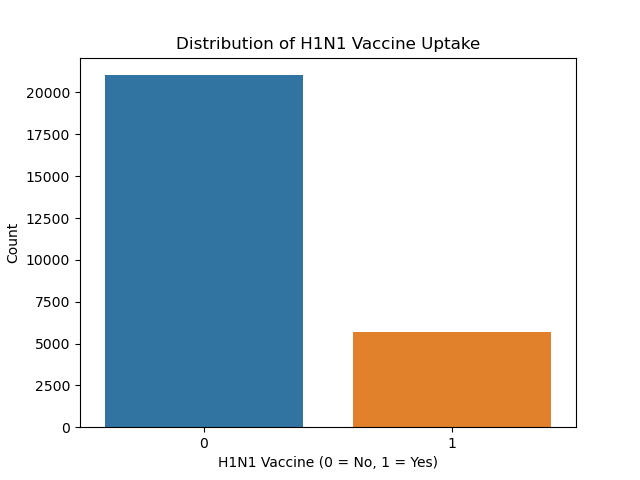
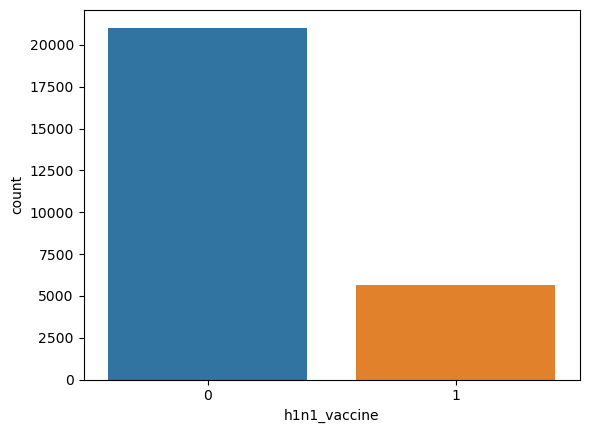
Final update: improved README, added plots, updated notebook with pipeline, evaluation, and tuning

Changed region(s): [[0.0, 0.06, 0.9474, 0.9908]]

diff --git a/README.md b/README.md
@@ -1,142 +1,236 @@
-# h1n1-flu-vaccine-prediction
-## Predicting H1N1 flu vaccine uptake using machine learning
+# H1N1 Flu Vaccine Prediction
 
-# Project Overview
-During the 2009 H1N1 pandemic, vaccination was one of the most important strategies used to reduce the spread of the virus. However, vaccination uptake varied significantly among individuals.
+Predicting H1N1 flu vaccine uptake using machine learning.
 
-This project builds machine learning classification models to predict whether an individual received the H1N1 vaccine based on demographic characteristics, health behaviors, and vaccine attitudes.
+---
 
-The goal is to identify key factors influencing vaccination decisions and provide insights that can help public health organizations improve vaccination outreach strategies.
+##  Project Overview
+
+During the 2009 H1N1 influenza pandemic, vaccination was one of the most effective strategies used to reduce infection rates and prevent severe outcomes. Despite this, vaccination uptake varied significantly across different population groups.
+
+This project applies machine learning techniques to predict whether an individual received the H1N1 vaccine based on:
+
+- Demographic characteristics  
+- Health conditions  
+- Preventive behaviors  
+- Attitudes toward vaccines  
+
+Beyond prediction, the goal is to identify key factors influencing vaccination decisions and generate actionable insights for public health organizations.
+
+---
+
+##  Dataset
+
+The dataset used in this project comes from the **National 2009 H1N1 Flu Survey**.
+
+🔗 Dataset Source:  
+https://www.drivendata.org/competitions/66/flu-shot-learning/data/
+
+### Dataset Description
+
+The dataset consists of two main files:
+
+- `training_set_features.csv` → Predictor variables  
+- `training_set_labels.csv` → Target variables  
+
+Each row represents an individual respondent and includes:
+
+- Demographics (age, sex, race, income)  
+- Health conditions  
+- Behavioral factors (mask use, hand washing, etc.)  
+- Opinions and perceptions about vaccines  
+
+The datasets are merged using a unique identifier: `respondent_id`.
+
+### Target Variable
+
+- `h1n1_vaccine`  
+  - `1` → Received vaccine  
+  - `0` → Did not receive vaccine  
+
+---
 
 # Business Problem
 
-Public health organizations need to understand why some individuals choose to vaccinate while others do not.
+Public health organizations aim to increase vaccination rates to reduce the spread of infectious diseases.
 
-Understanding these patterns can help design better vaccination campaigns and improve vaccine uptake.
+However, not all individuals choose to vaccinate.
 
-Key Question
+## Key Question:
+> Can we predict whether someone will receive the H1N1 vaccine based on their characteristics and behaviors?
 
-Can we predict whether someone will receive the H1N1 vaccine using demographic information, health behaviors, and vaccine attitudes?
+Understanding this helps:
+- Improve vaccine outreach  
+- Target hesitant populations  
+- Design better public health campaigns  
 
-## Stakeholder
-The primary stakeholders for this project include:
+---
 
-- Public health organizations
+##  Stakeholders
 
-- Healthcare policymakers
+- Public health organizations  
+- Healthcare policymakers  
+- Medical professionals  
 
-- Medical professionals involved in vaccination campaigns
+These stakeholders rely on data-driven insights to improve vaccination strategies and protect vulnerable populations.
 
-These stakeholders aim to increase vaccination rates in order to reduce the spread of infectious diseases and protect vulnerable populations.
+---
 
+##  Methodology
 
-# Key Results
+The project follows a structured data science workflow:
 
-Main findings from the analysis:
+### 1. Data Preparation
+- Merged datasets using `respondent_id`
+- Handled missing values using mode imputation
+- Removed irrelevant columns (e.g., `respondent_id`)
+- Applied one-hot encoding to categorical variables
+- Performed train-test split
 
-- Logistic Regression achieved 84% accuracy
+---
 
-- Doctor recommendation was the strongest predictor of vaccination
+### 2. Pipeline Implementation
+A machine learning pipeline was used to:
 
-- Individuals with higher perceived H1N1 risk were more likely to vaccinate
+- Apply preprocessing (scaling + encoding)
+- Train models consistently
+- Prevent data leakage
+- Improve reproducibility
 
-- Healthcare workers had higher vaccination uptake
+---
 
+### 3. Reusable Evaluation Function
+A reusable function was created to standardize:
 
-# Model Performance
-## Confusion Matrix
+- Model training  
+- Predictions  
+- Evaluation metrics  
+- Visualization  
 
-The model correctly classified most individuals who did not receive the vaccine, but performance was slightly lower when predicting vaccinated individuals due to class imbalance.
-![Confusion Matrix](images/plots/confusion_matrix.png)
+This improves code quality and ensures fair model comparison.
 
-## ROC Curve
+---
 
-The ROC curve shows that the model performs significantly better than random guessing, with an AUC score of approximately 0.83.
+### 4. Models Used
+
+- Logistic Regression  
+- Decision Tree  
+- Random Forest  
+
+---
+
+### 5. Hyperparameter Tuning
+
+GridSearchCV was used to optimize the Decision Tree model by tuning:
+
+- Maximum depth  
+- Minimum samples per split  
+
+This helps balance bias and variance and improve performance.
+
+---
+
+### 6. Model Evaluation
+
+Models were evaluated using:
+
+- Accuracy  
+- Precision  
+- Recall  
+- F1-score  
+- ROC-AUC  
+
+Cross-validation was used to ensure stability and generalization.
+
+---
+
+##  Model Performance
+
+| Model | Accuracy |
+|------|--------|
+| Logistic Regression | 0.84 |
+| Decision Tree | 0.75 |
+| Random Forest | 0.83 |
+
+### Final Model:
+ Logistic Regression
+
+**Why?**
+- Strong performance  
+- Stable across folds  
+- Easy to interpret  
+
+---
+
+##  Key Visualizations
+
+### Vaccine Distribution
+![Vaccine Distribution](images/plots/vaccine_distribution.png)
+
+### Doctor Recommendation vs Vaccination
+![Doctor Recommendation](images/plots/doctor_recommendation.png)
+
+### ROC Curve
 ![ROC Curve](images/plots/roc_curve.png)
 
-## Feature Importance
-
-The most influential predictors include:
-
-- Doctor recommendation
-
-- Perceived H1N1 risk
-
-- Vaccine effectiveness beliefs
-
-- Concern about H1N1
+### Feature Importance
 ![Feature Importance](images/plots/feature_importance.png)
 
-## Models Used
+---
 
-Three classification models were developed and compared:
+##  Key Insights
 
-- Logistic Regression
+- Doctor recommendation is the strongest predictor of vaccination  
+- Individuals with higher perceived risk are more likely to vaccinate  
+- Healthcare workers show higher vaccination uptake  
+- Older individuals are more likely to receive the vaccine  
+- Class imbalance affects model recall  
 
-- Decision Tree
+---
 
-- Random Forest
+##  Recommendations
 
-Model	                      Accuracy
-Logistic Regression	          0.84
-Decision Tree	              0.75
-Random Forest	              0.83
+Based on the findings:
 
-Logistic Regression was selected as the final model because it provided the best balance between performance and interpretability.
+- Encourage healthcare providers to actively recommend vaccines  
+- Increase public awareness of vaccine risks and benefits  
+- Target younger populations with tailored campaigns  
+- Expand workplace vaccination programs  
 
-# Key Insights
+---
 
-The analysis revealed several important patterns:
+##  Future Recommendations
 
-- Doctor Recommendation
-Individuals advised by healthcare professionals were significantly more likely to vaccinate.
+- Use machine learning to identify high-risk or hesitant populations  
+- Integrate vaccination reminders into healthcare systems  
+- Improve accessibility and distribution infrastructure  
+- Conduct continuous public health awareness campaigns  
 
-- Risk Perception
-People who believed H1N1 posed a serious risk were more likely to receive the vaccine.
+---
 
-- Occupation
-Healthcare workers showed higher vaccination rates due to increased exposure and awareness.
+##  Limitations
 
-- Age Group
-Older individuals were more likely to vaccinate than younger populations.
+- Data is self-reported and may contain inaccuracies  
+- Dataset reflects 2009 behavior (may not generalize today)  
+- Missing values required imputation  
+- Class imbalance impacts model performance  
+- Models identify patterns, not causation  
 
-# Recommendations
+---
 
-Public health organizations could improve vaccination uptake by:
+##  Project Files
 
-- Encouraging healthcare providers to actively recommend vaccines
+-  Notebook: `notebooks/project_notebook.ipynb`  
+-  Notebook PDF: `notebooks/project_notebook.pdf`  
+-  Presentation: `presentation/presentation.pdf`  
 
-- Increasing public awareness about influenza risks
+---
 
-- Targeting groups with lower vaccination rates
+##  Conclusion
 
-- Expanding workplace vaccination programs
+This project demonstrates how machine learning can be used to predict vaccination behavior and uncover key drivers such as doctor recommendation and risk perception.
 
-# Limitations
-
-- The dataset relies on self-reported survey data
-
-- Data reflects 2009 pandemic conditions
-
-- Some missing values required imputation
-
-- Machine learning identifies patterns but does not establish causation
-
-# Future Improvements
-
-Future work could include:
-
-- Testing additional models such as Gradient Boosting or XGBoost
-
-- Applying more advanced feature engineering
-
-- Incorporating newer vaccination datasets
-
-- Including healthcare access and geographic variables
-
-# Conclusion
-
-This project demonstrates how machine learning can help identify the key factors that influence vaccination decisions. By understanding the drivers of vaccination behavior, public health organizations can design more effective campaigns that encourage individuals to protect themselves and their communities.
+These insights provide valuable guidance for public health organizations aiming to improve vaccination uptake and design more effective health interventions.
 
 
 